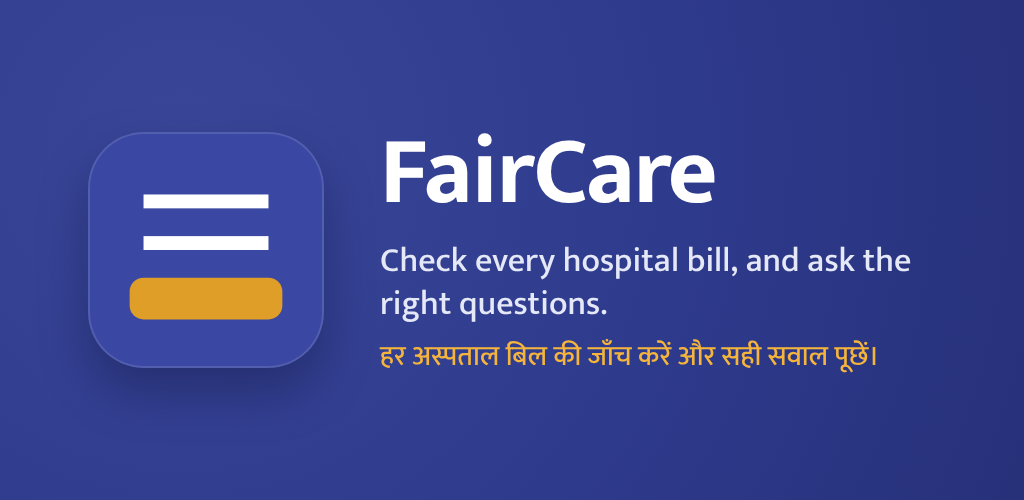
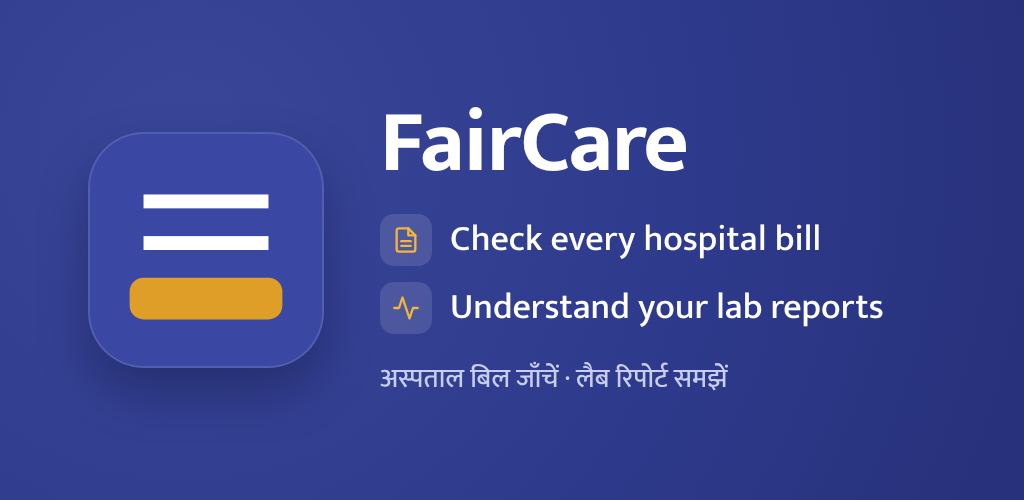
Show lab reports on the Play feature graphic
One line each for checking bills and understanding lab reports, with
the app's own icons for them, and the Hindi line covering both.

Claude-Session: https://claude.ai/code/session_01PijV7afXNCkbAQSs9tFNke

diff --git a/docs/play-store/assets.html b/docs/play-store/assets.html
@@ -3,8 +3,8 @@
   Source for the Google Play listing images. render.js screenshots #icon
   (512x512) and #feature (1024x500) into this folder. The mark is the
   prototype's logo (docs/prototype.html, .logo): two ruled bill lines over a
-  marigold band on indigo. Colours from app/src/constants/theme.ts; taglines
-  from auth.welcomeTagline in app/src/i18n/locales.
+  marigold band on indigo. Colours from app/src/constants/theme.ts; Hindi from
+  the app's own strings (auth.welcomeTagline, lab.newTitle).
 -->
 <html lang="en">
   <head>
@@ -55,24 +55,47 @@
           inset 0 0 0 2px rgba(255, 255, 255, 0.12);
       }
       .words h1 {
-        margin: 0;
-        font-size: 96px;
+        margin: 0 0 26px;
+        font-size: 88px;
         line-height: 1;
         font-weight: 700;
         letter-spacing: -1px;
       }
-      .words p {
-        margin: 18px 0 0;
-        font-size: 34px;
-        line-height: 1.25;
+      .feat {
+        display: flex;
+        align-items: center;
+        gap: 18px;
+        margin-top: 16px;
+      }
+      .feat .ic {
+        flex: none;
+        width: 52px;
+        height: 52px;
+        border-radius: 14px;
+        background: rgba(255, 255, 255, 0.12);
+        display: grid;
+        place-items: center;
+      }
+      .feat .ic svg {
+        width: 28px;
+        height: 28px;
+        fill: none;
+        stroke: #f5b53d;
+        stroke-width: 2;
+        stroke-linecap: round;
+        stroke-linejoin: round;
+      }
+      .feat span {
+        font-size: 36px;
+        line-height: 1.2;
         font-weight: 500;
-        color: #e5e8f7;
-        max-width: 560px;
+        color: #ffffff;
       }
       .words p.hi {
-        margin-top: 14px;
-        font-size: 28px;
-        color: #f5b53d;
+        margin: 22px 0 0;
+        font-size: 27px;
+        font-weight: 500;
+        color: #c9cef0;
       }
     </style>
   </head>
@@ -103,8 +126,25 @@
         </svg>
         <div class="words">
           <h1>FairCare</h1>
-          <p>Check every hospital bill, and ask the right questions.</p>
-          <p class="hi">हर अस्पताल बिल की जाँच करें और सही सवाल पूछें।</p>
+          <!-- Icons from Feather, as the app uses: file-text for bills, activity for lab reports. -->
+          <div class="feat">
+            <div class="ic">
+              <svg viewBox="0 0 24 24">
+                <path d="M14 2H6a2 2 0 0 0-2 2v16a2 2 0 0 0 2 2h12a2 2 0 0 0 2-2V8z" />
+                <polyline points="14 2 14 8 20 8" />
+                <line x1="16" y1="13" x2="8" y2="13" />
+                <line x1="16" y1="17" x2="8" y2="17" />
+              </svg>
+            </div>
+            <span>Check every hospital bill</span>
+          </div>
+          <div class="feat">
+            <div class="ic">
+              <svg viewBox="0 0 24 24"><polyline points="22 12 18 12 15 21 9 3 6 12 2 12" /></svg>
+            </div>
+            <span>Understand your lab reports</span>
+          </div>
+          <p class="hi">अस्पताल बिल जाँचें · लैब रिपोर्ट समझें</p>
         </div>
       </div>
     </div>
